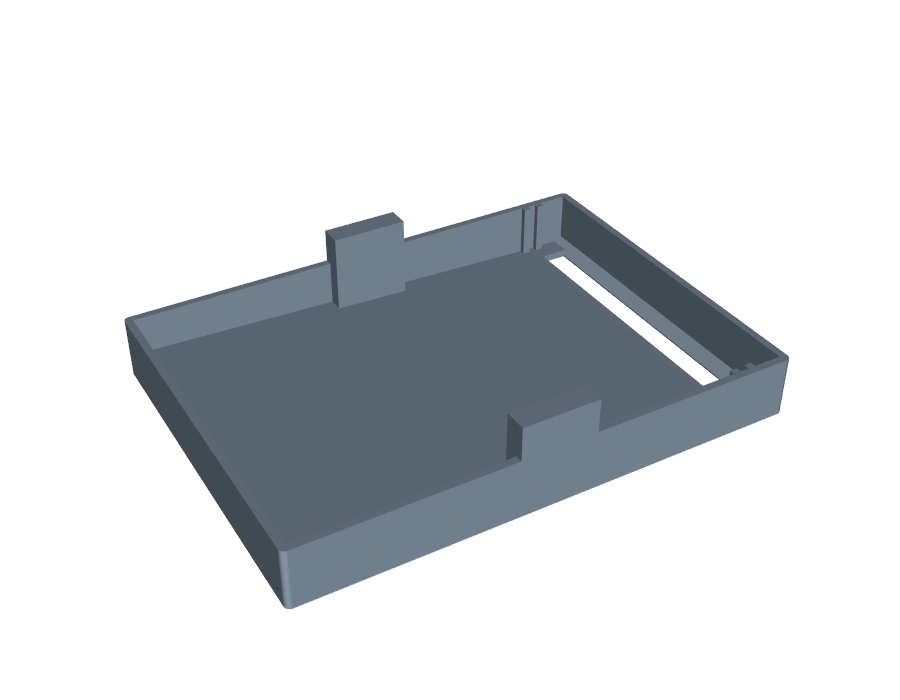
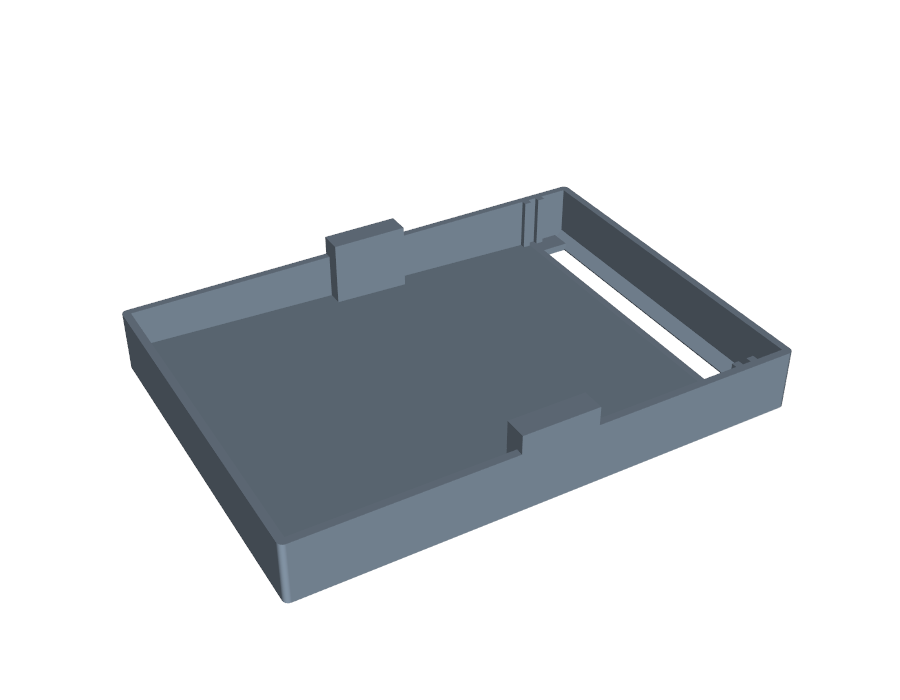
Gated tabs clear the box above; tower view; build + slice optimizer winners
- gated_container: pull tabs topped out 3 mm above the holder rim, so in the
  rim-on-rim tower they hit the side ledge of the box above (the sim had to
  cut them: TAB_CLASH). TAB_TOP is now box.H - LEDGE_T - 1 = 21, 1 mm under
  the rim like the inserts; the finger notches sit over them. Re-sliced on
  the P1S: 65 min, 47.0 g (was 67 min, 47.5 g).
- gated_container.tower(): cut-away of the assembled tower (holder per
  level, alternate levels flipped, catch pan) -> out/gated_tower.png.
- build_winners.py (WSL): builds each winner in sim/opt/winners.json from its
  "cad" block (gated constants + STRIPS, plinko LAYERS, insert INSERTS) with
  the scripts' own builders, plus a tower preview and printability flags.
- winners.py (Windows): runs that build in WSL, slices every part, writes
  sim/opt/print_plan.md. Tested end to end on a mock with one winner per
  family (11 parts, 8 sliced, ~9 min).
- slice.py: slice_part() for reuse; same CLI.

diff --git a/cad/build_winners.py b/cad/build_winners.py
@@ -1,0 +1,133 @@
+"""Build the design optimizer's winners as printable parts: out/<prefix><part> (STEP, STL, PNG, checks).
+
+Run in the WSL venv from this folder:  ~/venvs/sieve/bin/python build_winners.py [../sim/opt/winners.json]
+winners.py runs it from Windows and then slices every part. The prefix is win<rank>_ for the demo study
+and <study>_win<rank>_ for the others (winners_<study>.json).
+
+Each winner's "cad" block (sim/optimize.py) names the script and the numbers, in nominal (CAD) sizes:
+    gated    gated_container.py: "constants" (module constants) and "STRIPS", top level first
+    plinko   plinko_layers.py: "LAYERS" rows, top first
+    inserts  sieve_insert.py: "INSERTS", coarse first
+The script is imported fresh for each winner, those tables are replaced, and the script's own builders
+make the parts, so a winner is built exactly like the hand-made parts. Each winner also gets a preview
+of its assembled tower. Printability flags go into the checks and into out/winners_build.json.
+"""
+import importlib
+import json
+import math
+import sys
+from datetime import datetime
+from pathlib import Path
+
+from cadkit import OUT, export_all
+
+LINES = 0.8          # two 0.4 mm extrusion lines: thinner walls and teeth print, but fragile or ragged
+
+
+def fresh(module):
+    m = importlib.import_module(module)
+    return importlib.reload(m)            # back to the file's own numbers before this winner's overrides
+
+
+def gated(cad):
+    gc = fresh("gated_container")
+    for k, v in cad.get("constants", {}).items():
+        if not hasattr(gc, k):
+            raise SystemExit(f"build_winners: gated_container.py has no constant {k}")
+        setattr(gc, k, v)
+    gc.STRIPS = {n: (kind, float(size)) for n, (kind, size) in cad["STRIPS"].items()}
+    levels = list(gc.STRIPS)
+    parts = {"gated_container": gc.container, **{n: (lambda n=n: gc.strip(n)) for n in levels}}
+    previews = {"tower": lambda: gc.tower(levels)}
+    flags = []
+    if gc.TOOTH < LINES:
+        flags.append(f"teeth between openings are {gc.TOOTH:g} mm: under two 0.4 mm lines, fragile")
+    for n, (kind, size) in gc.STRIPS.items():
+        if size < LINES:
+            flags.append(f"{n}: {size:g} mm opening may close up on the first layer")
+    slot = gc.OPEN_X - (gc.GATE_X + gc.STRIP_T / 2)
+    if slot < 3.0:
+        flags.append(f"drop slot is {slot:g} mm long: under 3 mm, check that the gate rails still fit")
+    return parts, previews, flags
+
+
+def plinko(cad):
+    pl = fresh("plinko_layers")
+    pl.LAYERS = [tuple(row) for row in cad["LAYERS"]]
+    parts = {name: (lambda n=name: pl.layer(n)) for name, *_ in pl.LAYERS}
+    previews = {"tower": pl.section}
+    flags = []
+    for name, floor, gap, b_top, h, *_ in pl.LAYERS:
+        if floor != "rods":
+            continue
+        b_bot = b_top - 2 * h * math.tan(math.radians(pl.RELIEF_DEG))
+        if b_bot < LINES:
+            flags.append(f"{name}: rods are {b_bot:.2f} mm wide at the bed (taper), under two lines")
+        if gap < LINES:
+            flags.append(f"{name}: {gap:g} mm gap may close up on the first layer")
+    return parts, previews, flags
+
+
+def inserts(cad):
+    si = fresh("sieve_insert")
+    si.INSERTS = {n: tuple(v) for n, v in cad["INSERTS"].items()}
+    parts = {n: (lambda n=n: si.insert(n)) for n in si.INSERTS}
+    previews = {"tower": lambda: insert_tower(si, list(si.INSERTS))}
+    flags = []
+    for n, (hole, bar, _t) in si.INSERTS.items():
+        if bar < LINES:
+            flags.append(f"{n}: {bar:g} mm bars between holes, under two lines")
+        if hole < LINES:
+            flags.append(f"{n}: {hole:g} mm holes may close up on the first layer")
+    return parts, previews, flags
+
+
+def insert_tower(si, names):
+    """One holder box per insert (coarse on top) stacked rim on rim over a catch pan, cut in half."""
+    import cadquery as cq
+    import frame_holder as box
+    from gated_container import half
+    stack = box.frame().union(cq.Workplane("XY").box(box.OPEN_L + 1, box.OPEN_W + 1, box.LEDGE_T,
+                                                     centered=(True, True, False)))
+    for i, n in enumerate(names):
+        z = (len(names) - i) * box.H
+        stack = stack.union(box.frame().translate((0, 0, z))).union(si.insert(n)[0].translate((0, 0, z + box.LEDGE_T)))
+    return half(stack), {"preview_only": True, "levels_top_first": names}
+
+
+FAMILIES = {"gated": gated, "plinko": plinko, "inserts": inserts}
+
+
+def main():
+    src = Path(sys.argv[1] if len(sys.argv) > 1 else "../sim/opt/winners.json").resolve()
+    data = json.loads(src.read_text(encoding="utf-8"))
+    study = data.get("study", "demo")
+    built = {"source": str(src), "study": study, "built": f"{datetime.now():%Y-%m-%d %H:%M}",
+             "caveat": data.get("caveat"), "undersize_mm_assumed": data.get("undersize_mm_assumed"), "winners": []}
+    for w in data["winners"]:
+        fam = w["family"]
+        if fam not in FAMILIES:
+            print(f"build_winners: rank {w['rank']}: no CAD builder for family {fam!r}, skipped")
+            continue
+        prefix = f"win{w['rank']}_" if study == "demo" else f"{study}_win{w['rank']}_"
+        parts, previews, flags = FAMILIES[fam](w["cad"])
+        entry = {k: w.get(k) for k in ("rank", "id", "family", "sim_spec", "stroke", "score", "params_nominal")}
+        entry.update({"flags": flags, "parts": []})
+        for name, make in [*parts.items(), *previews.items()]:
+            part, info = make()
+            out = prefix + name
+            checks = export_all(part, out, {**info, "winner": w["rank"], "printability_flags": flags})
+            ok = all(checks[k] for k in ("valid_solid", "single_solid", "watertight_mesh", "fits_bed"))
+            entry["parts"].append({"name": out, "print": name in parts, "checks_ok": ok,
+                                   "bbox_mm": checks["bbox_mm"], "volume_cm3": checks["volume_cm3"]})
+            print(f"{out}: {'ok' if ok else 'CHECKS FAILED'} {checks['bbox_mm']}")
+        for f in flags:
+            print(f"  flag: {f}")
+        built["winners"].append(entry)
+    name = "winners_build.json" if study == "demo" else f"winners_build_{study}.json"
+    (OUT / name).write_text(json.dumps(built, indent=1), encoding="utf-8")
+    print(f"build_winners: wrote {OUT / name}")
+
+
+if __name__ == "__main__":
+    main()

diff --git a/cad/winners.py b/cad/winners.py
@@ -1,0 +1,111 @@
+"""Build, preview and slice the design optimizer's winners, then write the print plan.
+
+Run on Windows from this folder:  ..\\.venv\\Scripts\\python.exe winners.py [..\\sim\\opt\\winners.json] [--no-build]
+1. build_winners.py in the WSL venv (cadquery is blocked on Windows by Smart App Control): every part as
+   out/win<rank>_<part>.stl/.step/.png plus checks, and a preview of each winner's tower;
+2. slice.py here with Bambu Studio (P1S by default): time, grams and bridging per part;
+3. sim/opt/print_plan.md (print_plan_<study>.md for other studies): one table per winner.
+"""
+import argparse
+import json
+import subprocess
+from datetime import datetime
+from pathlib import Path
+
+from slice import OUT, slice_part
+
+HERE = Path(__file__).resolve().parent
+OPT = HERE.parent / "sim" / "opt"
+WSL_PY = "~/venvs/sieve/bin/python"
+
+
+def wsl_path(p: Path) -> str:
+    p = p.resolve()
+    return f"/mnt/{p.drive[0].lower()}{p.as_posix()[2:]}"
+
+
+def build(winners: Path):
+    cmd = f"cd '{wsl_path(HERE)}' && {WSL_PY} build_winners.py '{wsl_path(winners)}' 2>&1 | grep -v 'bad X server'"
+    r = subprocess.run(["wsl", "-d", "Ubuntu", "--", "bash", "-lc", cmd])
+    if r.returncode:
+        raise SystemExit("winners: the WSL build failed")
+
+
+def repo_rel(path: str) -> str:
+    """WSL or Windows path -> repo-relative when inside the repo."""
+    p = path.replace("/mnt/c/", "C:/") if path.startswith("/mnt/c/") else path
+    try:
+        return Path(p).resolve().relative_to(HERE.parent).as_posix()
+    except ValueError:
+        return Path(p).as_posix()
+
+
+def plan_md(built: dict, sliced: dict, printer: str) -> str:
+    lines = [f"# Print plan: {built['study']} winners", "",
+             f"Built {built['built']} from `{repo_rel(built['source'])}`, "
+             f"sliced for the {printer} (Bambu Studio's default process, PLA). Made by `cad/winners.py`.", "",
+             f"**Caveat:** {built.get('caveat') or 'sim ranking only'}. The CAD is drawn at the nominal sizes; the "
+             f"sim assumed openings print {built.get('undersize_mm_assumed')} mm small. Check that against "
+             "`hole_gauge` before trusting a gate size to 0.1 mm.", ""]
+    for w in built["winners"]:
+        stroke = w.get("stroke") or {}
+        stroke_s = ", ".join(f"{k} {v:g}" if isinstance(v, (int, float)) else f"{k} {v}" for k, v in stroke.items())
+        score = (w.get("score") or {}).get("robust")
+        lines += [f"## Winner {w['rank']}: {w['family']}", "",
+                  f"- Sim spec: `{w['sim_spec']}`" + (f", robust score {score:.3f}" if score is not None else ""),
+                  f"- Stroke to set on the Pi: {stroke_s or 'n/a'}",
+                  f"- Tower preview: `cad/out/{next((p['name'] for p in w['parts'] if not p['print']), '-')}.png`", "",
+                  "| Part | Time | Filament | Checks |", "|---|---|---|---|"]
+        tot_min = tot_g = 0.0
+        for p in w["parts"]:
+            if not p["print"]:
+                continue
+            s = sliced.get(p["name"])
+            if s is None:
+                lines.append(f"| `{p['name']}` | slice failed | | {'ok' if p['checks_ok'] else 'FAILED'} |")
+                continue
+            tot_min += s["minutes"]
+            tot_g += s["grams"]
+            lines.append(f"| `{p['name']}` | {s['minutes']:.0f} min | {s['grams']:.1f} g | "
+                         f"{'ok' if p['checks_ok'] else 'FAILED'} |")
+        lines += [f"| **Total, one of each** | **{tot_min:.0f} min** | **{tot_g:.1f} g** | |", ""]
+        if w["flags"]:
+            lines += ["Printability flags (also go into `sim/opt/LOG.md` as constraints):", ""]
+            lines += [f"- {f}" for f in w["flags"]] + [""]
+        else:
+            lines += ["No printability flags.", ""]
+    lines += ["Checks: valid single solid, watertight mesh, fits the bed. A tower needs one holder box per level "
+              "plus the catch pan; the holder (`frame_holder`) isn't repeated here.", ""]
+    return "\n".join(lines)
+
+
+def main():
+    ap = argparse.ArgumentParser(description=__doc__.splitlines()[0])
+    ap.add_argument("winners", nargs="?", type=Path, default=OPT / "winners.json")
+    ap.add_argument("--no-build", action="store_true", help="reuse out/winners_build*.json and the STLs")
+    ap.add_argument("--printer", default="P1S")
+    ap.add_argument("--plan", type=Path, help="where to write the plan (default sim/opt/print_plan[_<study>].md)")
+    args = ap.parse_args()
+    study = json.loads(args.winners.read_text(encoding="utf-8")).get("study", "demo")
+    if not args.no_build:
+        build(args.winners)
+    built = json.loads((OUT / ("winners_build.json" if study == "demo" else f"winners_build_{study}.json"))
+                       .read_text(encoding="utf-8"))
+    sliced = {}
+    for w in built["winners"]:
+        for p in w["parts"]:
+            if p["print"]:
+                try:
+                    sliced[p["name"]] = slice_part(p["name"], args.printer)
+                    s = sliced[p["name"]]
+                    print(f"{p['name']}: {s['minutes']:.0f} min, {s['grams']:.1f} g")
+                except RuntimeError as e:
+                    print(f"{p['name']}: {e}")
+    plan = args.plan or OPT / ("print_plan.md" if study == "demo" else f"print_plan_{study}.md")
+    plan.parent.mkdir(parents=True, exist_ok=True)
+    plan.write_text(plan_md(built, sliced, args.printer), encoding="utf-8")
+    print(f"winners: wrote {plan} ({datetime.now():%H:%M})")
+
+
+if __name__ == "__main__":
+    main()

diff --git a/cad/gated_container.py b/cad/gated_container.py
@@ -46,7 +46,10 @@ SLOT_FIT = 0.3                     # rail gap minus strip thickness
 END_FIT = 0.4                      # inside width minus strip length
 GATE_X = OPEN_X - 8.0              # strip centre; the drop slot runs from its face to OPEN_X
 RAIL_P, RAIL_T = 1.5, 2.0          # rail: how far it sticks out from the wall, its thickness
-TAB_W, TAB_T, TAB_TOP = ins.TAB_W, ins.TAB_T, 25.0   # pull tabs, top 3 mm above the box rim
+TAB_W, TAB_T = ins.TAB_W, ins.TAB_T                  # pull tabs, centred on the long walls
+TAB_TOP = box.H - box.LEDGE_T - 1.0                 # 21: 1 mm under the rim, like the inserts' tabs. Higher
+                                                    # tabs hit the ledge of the box above in the tower; the
+                                                    # box's finger notches sit over them for gripping
 
 # gate strips: (kind, size). w = width gaps GATE_H tall; t = tunnels TUNNEL_W wide, size tall
 GATE_H, TUNNEL_W, TOOTH = 8.0, 8.0, 2.0
@@ -106,16 +109,43 @@ def strip(name):
                              "strip_mm": [round(length, 2), STRIP_H, STRIP_T]}
 
 
+def seated(gate):
+    """The container with the strip standing in its rails, in the container's frame."""
+    s = (strip(gate)[0].rotate((0, 0, 0), (1, 0, 0), 90).rotate((0, 0, 0), (0, 0, 1), 90)
+         .translate((GATE_X - STRIP_T / 2, 0, FLOOR_T)))
+    return container()[0].union(s)
+
+
+def half(stack):
+    """Cut away y < 0 so the preview shows the inside."""
+    return stack.cut(cq.Workplane("XY").box(300, 100, 400, centered=(True, False, False)).translate((0, -100, -50)))
+
+
 def preview(gate="gate_w5p0"):
     """out/gated_preview.png: holder box + container + one seated strip, cut in half. Preview only."""
-    seated = (strip(gate)[0].rotate((0, 0, 0), (1, 0, 0), 90).rotate((0, 0, 0), (0, 0, 1), 90)
-              .translate((GATE_X - STRIP_T / 2, 0, FLOOR_T)))
-    stack = box.frame().union(container()[0].union(seated).translate((0, 0, box.LEDGE_T)))
-    return stack.cut(cq.Workplane("XY").box(300, 100, 200, centered=(True, False, False))
-                     .translate((0, -100, -50))), {"preview_only": True, "gate": gate}
+    stack = box.frame().union(seated(gate).translate((0, 0, box.LEDGE_T)))
+    return half(stack), {"preview_only": True, "gate": gate}
 
 
-PARTS = {"gated_container": container, **{n: (lambda n=n: strip(n)) for n in STRIPS}, "gated_preview": preview}
+def tower(gates=("gate_w5p0", "gate_t1p4")):
+    """out/gated_tower.png: the tower cut in half, one holder box per gate (top first) stacked rim on rim, the
+    container flipped 180 deg on every other level, over a catch pan (a holder with its open centre filled).
+    Preview only."""
+    pan = box.frame().union(cq.Workplane("XY").box(box.OPEN_L + 1, box.OPEN_W + 1, box.LEDGE_T,
+                                                   centered=(True, True, False)))
+    stack = pan
+    for i, gate in enumerate(gates):
+        z = (len(gates) - i) * box.H
+        level = seated(gate).translate((0, 0, box.LEDGE_T))
+        if i % 2:
+            level = level.rotate((0, 0, 0), (0, 0, 1), 180)
+        stack = stack.union(box.frame().translate((0, 0, z))).union(level.translate((0, 0, z)))
+    return half(stack), {"preview_only": True, "levels_top_first": list(gates),
+                         "stacking": "holder boxes rim on rim, containers flipped on alternate levels, catch pan under"}
+
+
+PARTS = {"gated_container": container, **{n: (lambda n=n: strip(n)) for n in STRIPS}, "gated_preview": preview,
+         "gated_tower": tower}
 
 
 if __name__ == "__main__":

diff --git a/cad/slice.py b/cad/slice.py
@@ -31,12 +31,9 @@ def flat(kind, name):
     return {**flat(kind, parent), **data} if parent else data
 
 
-def main():
-    ap = argparse.ArgumentParser()
-    ap.add_argument("name", help="part name in out/, e.g. hole_gauge")
-    ap.add_argument("--printer", default="P1S", choices=PRINTERS)
-    a = ap.parse_args()
-    machine = flat("machine", PRINTERS[a.printer])
+def slice_part(name, printer="P1S"):
+    """Slice out/<name>.stl; returns minutes, grams and the .gcode.3mf path."""
+    machine = flat("machine", PRINTERS[printer])
     work = OUT / "slice"
     work.mkdir(parents=True, exist_ok=True)
     presets = {}
@@ -45,18 +42,30 @@ def main():
                        ("filament", flat("filament", machine["default_filament_profile"][0]))):
         presets[kind] = work / f"{kind}.json"
         presets[kind].write_text(json.dumps(data), encoding="utf-8")
+    (work / "result.json").unlink(missing_ok=True)
     subprocess.run([str(STUDIO / "bambu-studio.exe"),
                     "--load-settings", f"{presets['machine']};{presets['process']}",
                     "--load-filaments", str(presets["filament"]),
                     "--slice", "0", "--outputdir", str(work),
-                    "--export-3mf", f"{a.name}.gcode.3mf", str(OUT / f"{a.name}.stl")])
+                    "--export-3mf", f"{name}.gcode.3mf", str(OUT / f"{name}.stl")],
+                   stdout=subprocess.DEVNULL, stderr=subprocess.DEVNULL)
     result = json.loads((work / "result.json").read_text())
     if result["return_code"] != 0:
-        raise SystemExit(f"slice failed: {result['error_string']}")
+        raise RuntimeError(f"slice {name} failed: {result['error_string']}")
+    plate = result["sliced_plates"][0]
     head = (work / "plate_1.gcode").read_text(errors="replace")[:20000]
-    minutes = result["sliced_plates"][0]["total_predication"] / 60
-    grams = float(re.search(r"total filament weight \[g\] : ([\d.]+)", head).group(1))
-    print(f"{a.name} on {a.printer}: {minutes:.0f} min, {grams:.1f} g PLA -> {work / (a.name + '.gcode.3mf')}")
+    return {"minutes": plate["total_predication"] / 60,
+            "grams": float(re.search(r"total filament weight \[g\] : ([\d.]+)", head).group(1)),
+            "path": work / f"{name}.gcode.3mf"}
+
+
+def main():
+    ap = argparse.ArgumentParser()
+    ap.add_argument("name", help="part name in out/, e.g. hole_gauge")
+    ap.add_argument("--printer", default="P1S", choices=PRINTERS)
+    a = ap.parse_args()
+    r = slice_part(a.name, a.printer)
+    print(f"{a.name} on {a.printer}: {r['minutes']:.0f} min, {r['grams']:.1f} g PLA -> {r['path']}")
 
 
 if __name__ == "__main__":

diff --git a/README.md b/README.md
@@ -81,7 +81,7 @@ The holder box and sieve inserts are the current working design. The numbers are
 
 ![gated container in the holder box](cad/out/gated_preview.png)
 
-A drop-in replacement for the mesh inserts in the BugSorter tower: same 131.4 × 95.4 mm footprint and the same pull tabs, shaken longways.
+A drop-in replacement for the mesh inserts in the BugSorter tower: same 131.4 × 95.4 mm footprint and the same pull tabs, shaken longways. The tabs stop 1 mm under the box rim so the boxes stack rim on rim; grip them through the box's finger notches.
 
 **How it sorts:**
 1. The floor is solid and slopes 2° toward a gate strip at the +X end. Shaking walks grains, and the spray water, down to the gate.
@@ -96,6 +96,8 @@ A drop-in replacement for the mesh inserts in the BugSorter tower: same 131.4 ×
 | `gate_t1p2`, `gate_t1p4`, `gate_t1p6` | Tunnels 8 mm wide, 1.2 / 1.4 / 1.6 mm tall | Thickness. Long-grain rice (~1.7 mm) stays; quinoa (~1.0 mm) passes. |
 
 **In the tower, flip the container 180° on every other level.** That way, what drops from the level above lands on the solid end of the next container instead of falling straight through its slot.
+
+![gated tower, cut in half: two levels over the catch pan](cad/out/gated_tower.png)
 
 Dimensions are in [cad/WORKING_DIMENSIONS.md](cad/WORKING_DIMENSIONS.md).
 
@@ -243,5 +245,6 @@ The drop biases grains forward; it isn't a one-way valve. Each gate is a separat
 - STL and STEP files land in `cad\out\` but aren't committed: rebuilding them takes about 2 min.
 - Previews (`.png`) and checks (`_checks.json`) are committed.
 - Print `hole_gauge.py` first and pour each grain over it, so the aperture numbers match what your printer actually makes.
+- **The design optimizer's winners:** `..\.venv\Scripts\python.exe winners.py` builds every part of each winner in `sim\opt\winners.json` (in WSL, through `build_winners.py`), renders a cut-away of its tower, and slices each part. Parts land in `cad\out\win<rank>_*`, and the times, grams and printability flags go in `sim\opt\print_plan.md`.
 
 **Changing sizes:** every dimension is a named parameter at the top of `sieve_system.py`. `cadkit.py`, `hole_gauge.py` and `slice.py` are copies from `Documents\BioKEA-hack\cad`.

diff --git a/cad/WORKING_DIMENSIONS.md b/cad/WORKING_DIMENSIONS.md
@@ -46,7 +46,7 @@ Same footprint as the sieve inserts, shaken longways (X).
 | What | Value |
 |---|---|
 | Outside | 131.4 × 95.4; walls 2 thick, 16 tall |
-| Pull tabs | 20 × 6, top at 25 (3 above the box rim) |
+| Pull tabs | 20 × 6, top at 21 above the container's bottom: 1 below the box rim, so boxes stack rim on rim; grip them through the box's finger notches |
 | Floor | solid, 2 thick at the gate end; slopes 2° up away from the gate (rises 4.06 over the length) |
 | Gate strip position | centre at x = 53, held by two rails per side with a 2.3 groove |
 | Drop slot | x 54 to 61 (7 long), y ±40, over the box's open bottom; 45° ramp from 61 to the end wall |
